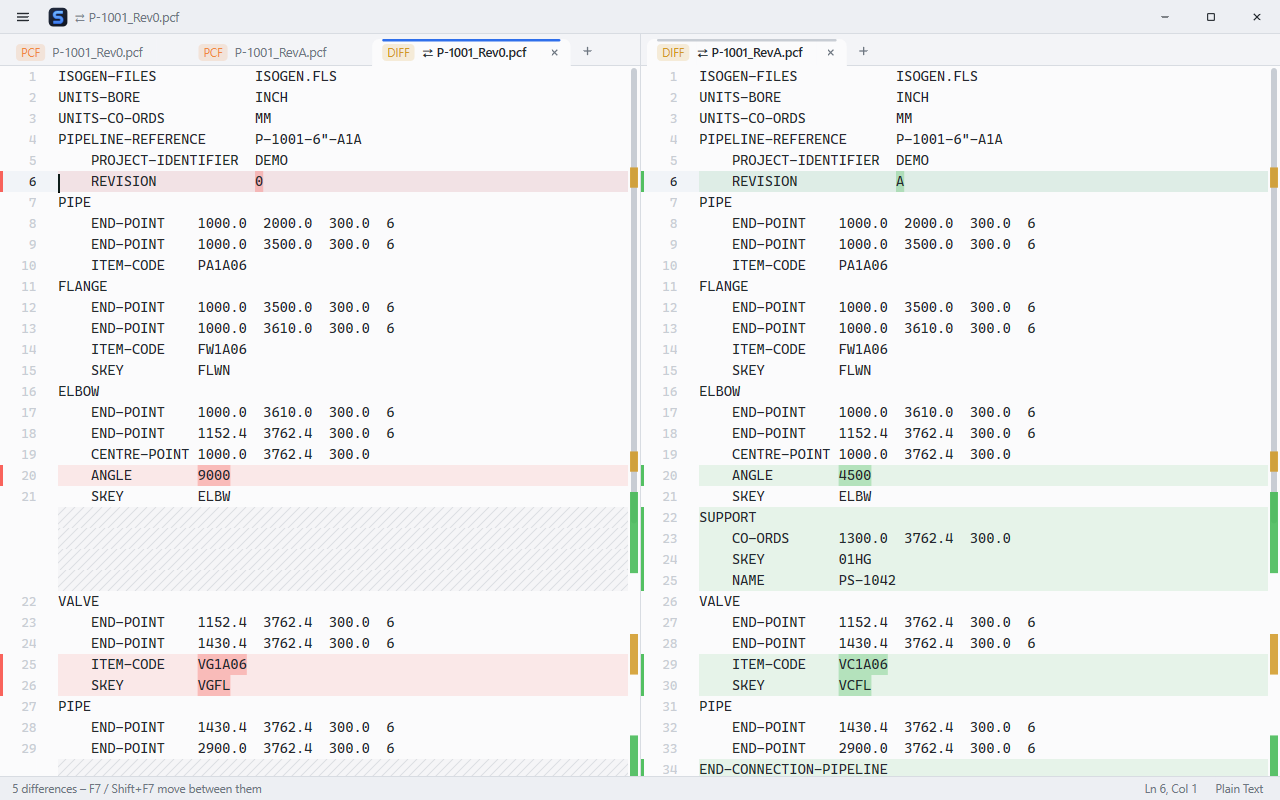
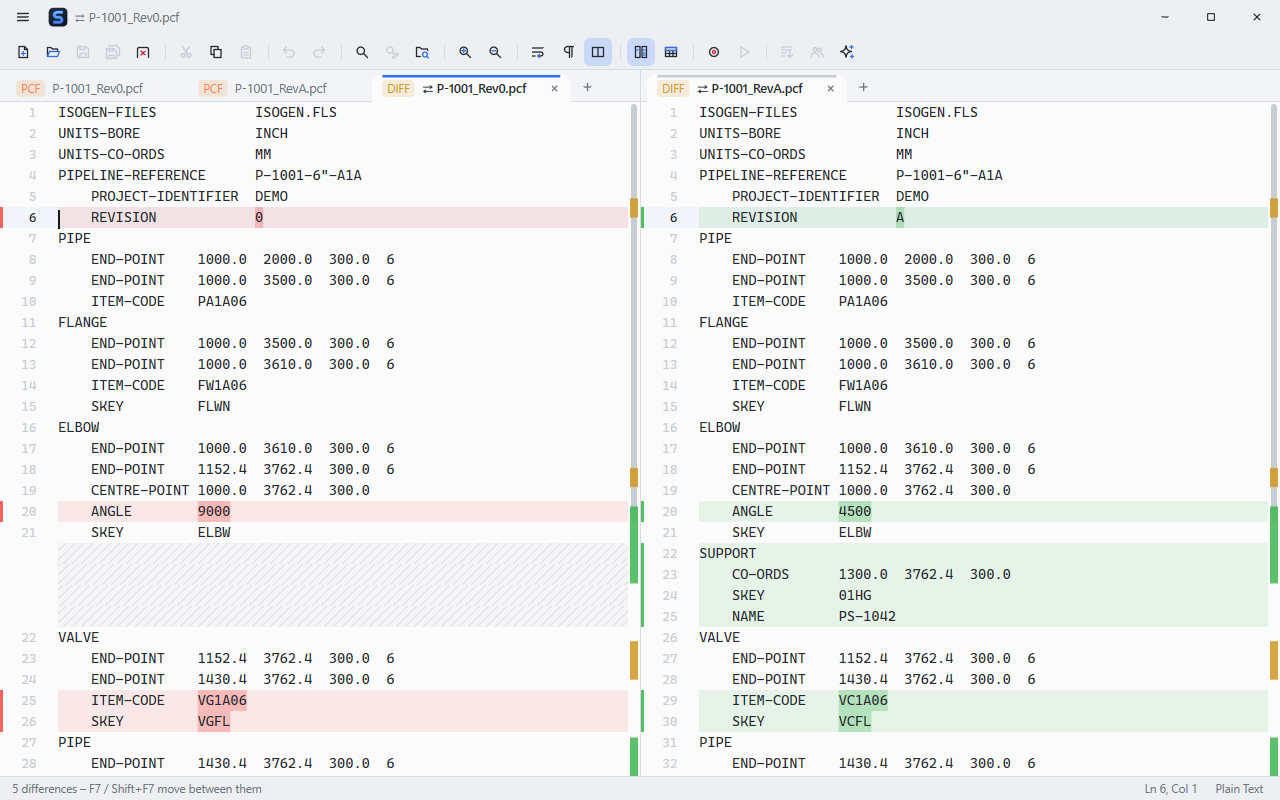
1.5.2: landing page shows the toolbar and unsaved-work recovery
- New compare and dark-theme screenshots with the toolbar
- Toolbar and crash / shutdown recovery on the page, with a question on restarts

diff --git a/docs/index.html b/docs/index.html
@@ -163,18 +163,19 @@
       <h2>Light and dark, quiet and quick</h2>
       <p>Every pixel is drawn with Direct2D: smooth scrolling, gliding tabs, file-type badges, seven accent colours, and an optional translucent window. Nothing animates unless it moves, so an idle Slate uses no CPU at all.</p>
       <ul>
+        <li>A toolbar of the everyday commands in Slate's own line icons, with a tooltip naming each button and its shortcut</li>
         <li>An AI assistant panel, ready for your company's own AI server (nothing is sent anywhere until one is set)</li>
       </ul>
     </div>
-    <div class="shot"><img src="img/dark-acrylic.png" alt="Slate in the dark theme with a translucent title bar and the assistant panel"></div>
+    <div class="shot"><img src="img/dark-acrylic.png" alt="Slate in the dark theme with the toolbar, a translucent title bar and the assistant panel"></div>
   </section>
 
   <h2 class="center">And everything you expect from an editor</h2>
-  <p class="center">Familiar Notepad++ shortcuts, and a command palette (Ctrl+Shift+P) that lists every command with its key.</p>
+  <p class="center">One-click toolbar buttons, familiar Notepad++ shortcuts, and a command palette (Ctrl+Shift+P) that lists every command with its key.</p>
   <div class="grid3">
     <div class="card"><h3>Editing</h3><p>Multiple carets, column selection, macros, sort and de-duplicate lines, case changes, comment toggling, bookmarks, folding.</p></div>
     <div class="card"><h3>Search</h3><p>Find and replace with regular expressions, find in files, go to line, same-word highlighting.</p></div>
-    <div class="card"><h3>Files</h3><p>Sessions that restore unsaved text after a crash, UTF-8 / UTF-16 / ANSI, CRLF / LF kept on save, split view, 21 syntax colourings.</p></div>
+    <div class="card"><h3>Files</h3><p>Unsaved text in every tab survives closing, crashes, power cuts and Windows restarts; UTF-8 / UTF-16 / ANSI, CRLF / LF kept on save, split view, 21 syntax colourings.</p></div>
   </div>
 
   <h2 class="center">Measured against Notepad++</h2>
@@ -187,6 +188,7 @@
 
   <h2 class="center" id="faq">Questions</h2>
   <details><summary>Do I need admin rights?</summary><p>No. The installer puts Slate in your user folder. A portable zip is available too.</p></details>
+  <details><summary>What happens to unsaved work if the PC restarts?</summary><p>It comes back. Like Notepad++, Slate keeps every open tab and its unsaved text, new tabs that were never saved included, whether you close Slate, Windows shuts down or restarts, or the power goes. Unsaved text is copied within two seconds of typing, and each copy is written in full before it replaces the last, so a power cut cannot damage it. Files of 64&nbsp;MB and more are copied when Windows shuts down, not while you type.</p></details>
   <details><summary>How does it update?</summary><p>Slate checks for a new release now and then, shows an "Update" button, and installs it in place. Each release is signed; if a new version fails to start, Slate puts the previous one back.</p></details>
   <details><summary>What do the team features need?</summary><p>Nothing to set up: Slates on the same network find each other. The first time, Windows may ask whether Slate may use the network; allowing it on private networks lets others connect to you (if it is not allowed, you can still connect to them). Instant search needs one always-on PC to run <code>slate.exe --hub &lt;folders&gt;</code>.</p></details>
   <details><summary>Does anything leave the office?</summary><p>No. Team features talk only to other Slates on your network, and the AI assistant only to the AI server your company sets. The only outside connection is the update check to GitHub, which can be turned off.</p></details>
